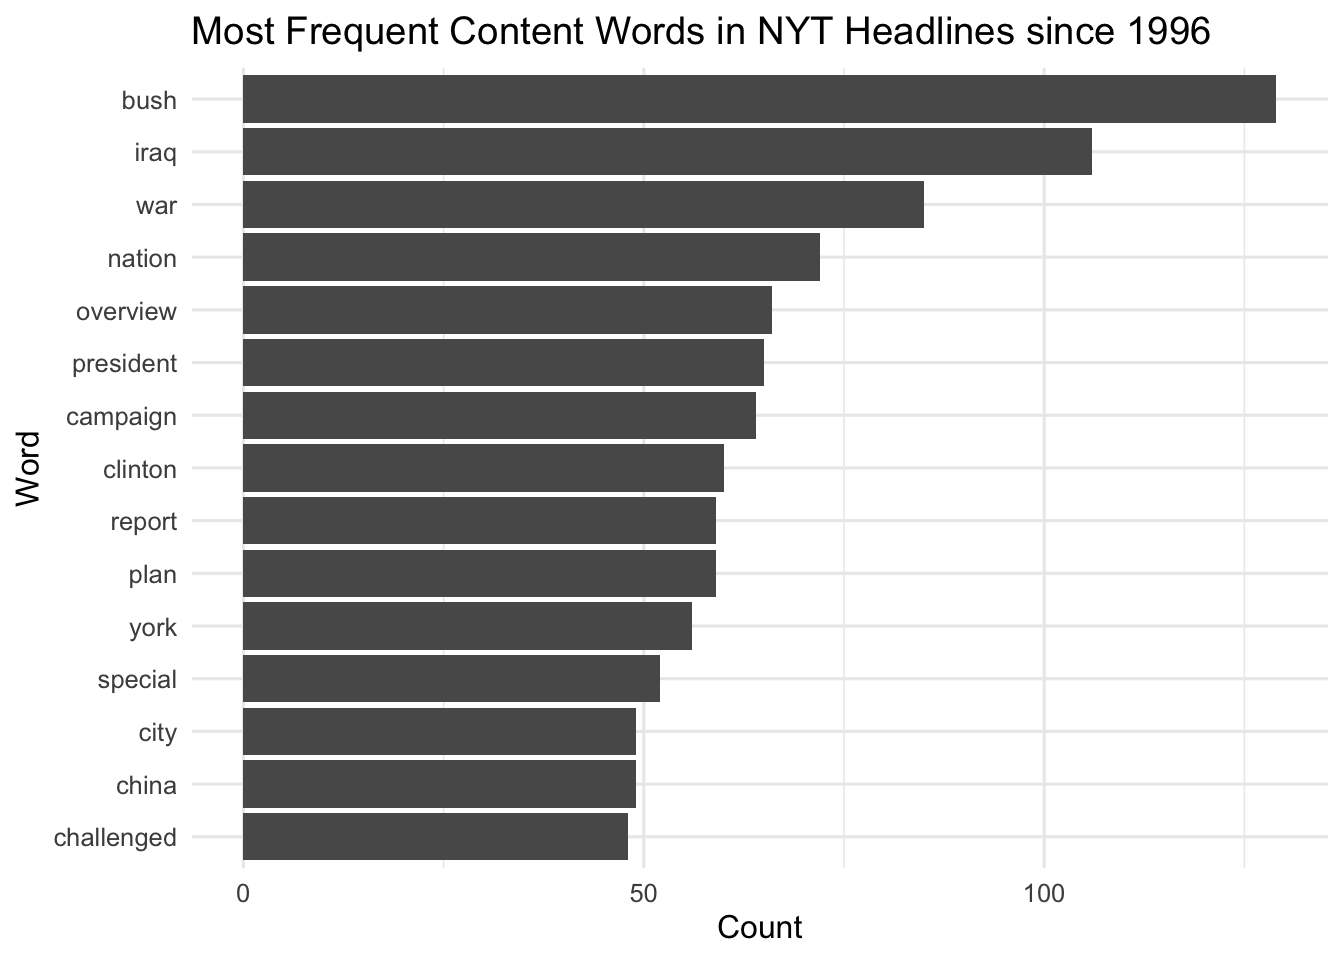
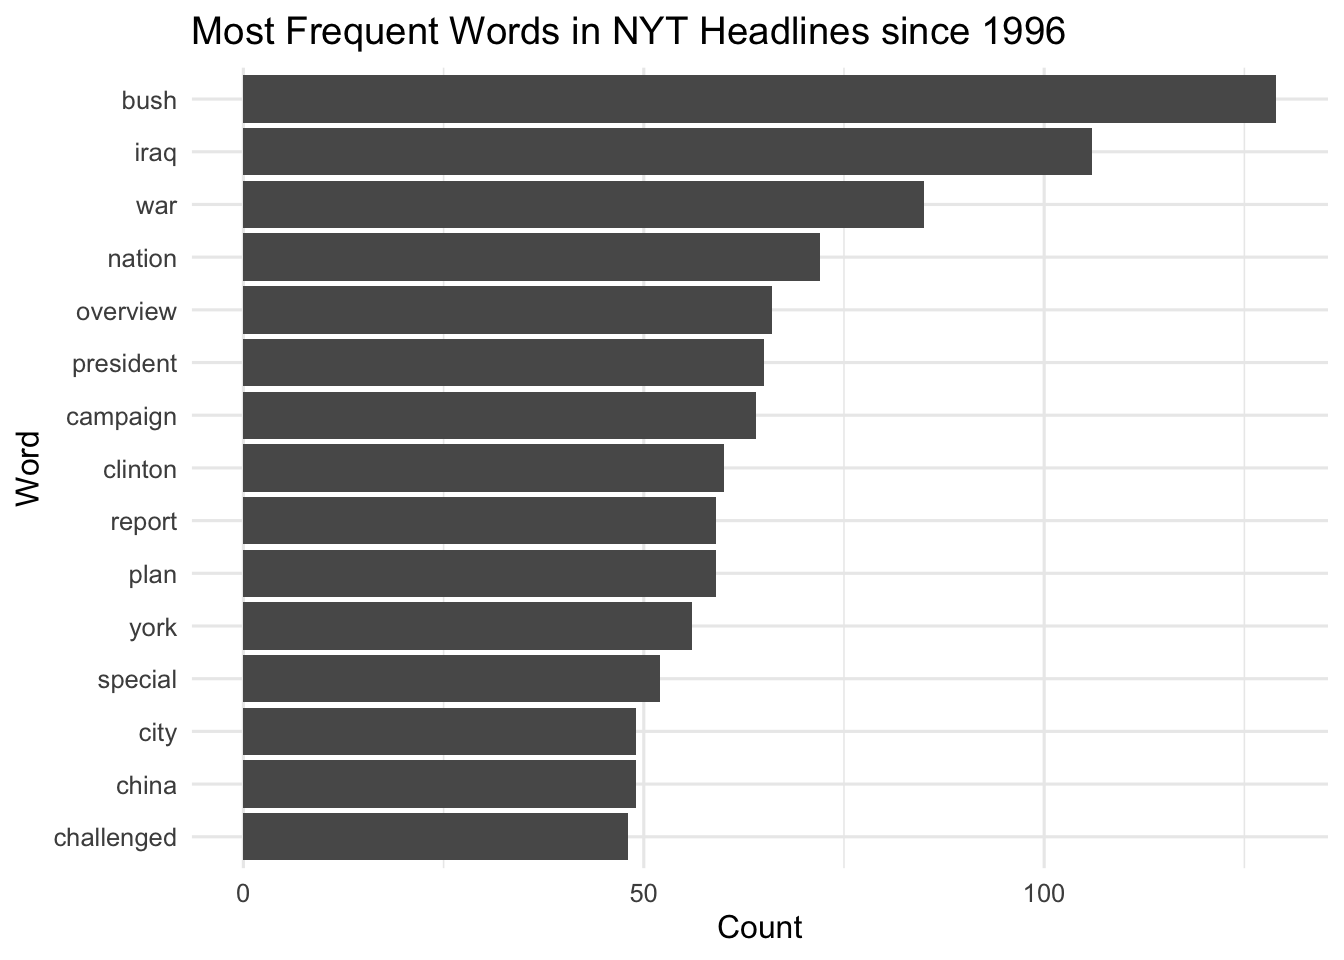
yay done

Changed region(s): [[0.3438, 0.0, 0.9062, 0.0625]]

diff --git a/docs/text_analysis.html b/docs/text_analysis.html
@@ -383,7 +383,7 @@ pre > code.sourceCode > span > a:first-child::before { text-decoration: underlin
 <span id="cb2-3"><a href="#cb2-3" aria-hidden="true" tabindex="-1"></a>  <span class="fu">geom_col</span>() <span class="sc">+</span></span>
 <span id="cb2-4"><a href="#cb2-4" aria-hidden="true" tabindex="-1"></a>  <span class="fu">coord_flip</span>() <span class="sc">+</span></span>
 <span id="cb2-5"><a href="#cb2-5" aria-hidden="true" tabindex="-1"></a>  <span class="fu">labs</span>(</span>
-<span id="cb2-6"><a href="#cb2-6" aria-hidden="true" tabindex="-1"></a>    <span class="at">title =</span> <span class="st">"Most Frequent Content Words in NYT Headlines since 1996"</span>,</span>
+<span id="cb2-6"><a href="#cb2-6" aria-hidden="true" tabindex="-1"></a>    <span class="at">title =</span> <span class="st">"Most Frequent Words in NYT Headlines since 1996"</span>,</span>
 <span id="cb2-7"><a href="#cb2-7" aria-hidden="true" tabindex="-1"></a>    <span class="at">x =</span> <span class="st">"Word"</span>,</span>
 <span id="cb2-8"><a href="#cb2-8" aria-hidden="true" tabindex="-1"></a>    <span class="at">y =</span> <span class="st">"Count"</span></span>
 <span id="cb2-9"><a href="#cb2-9" aria-hidden="true" tabindex="-1"></a>  ) <span class="sc">+</span></span>
